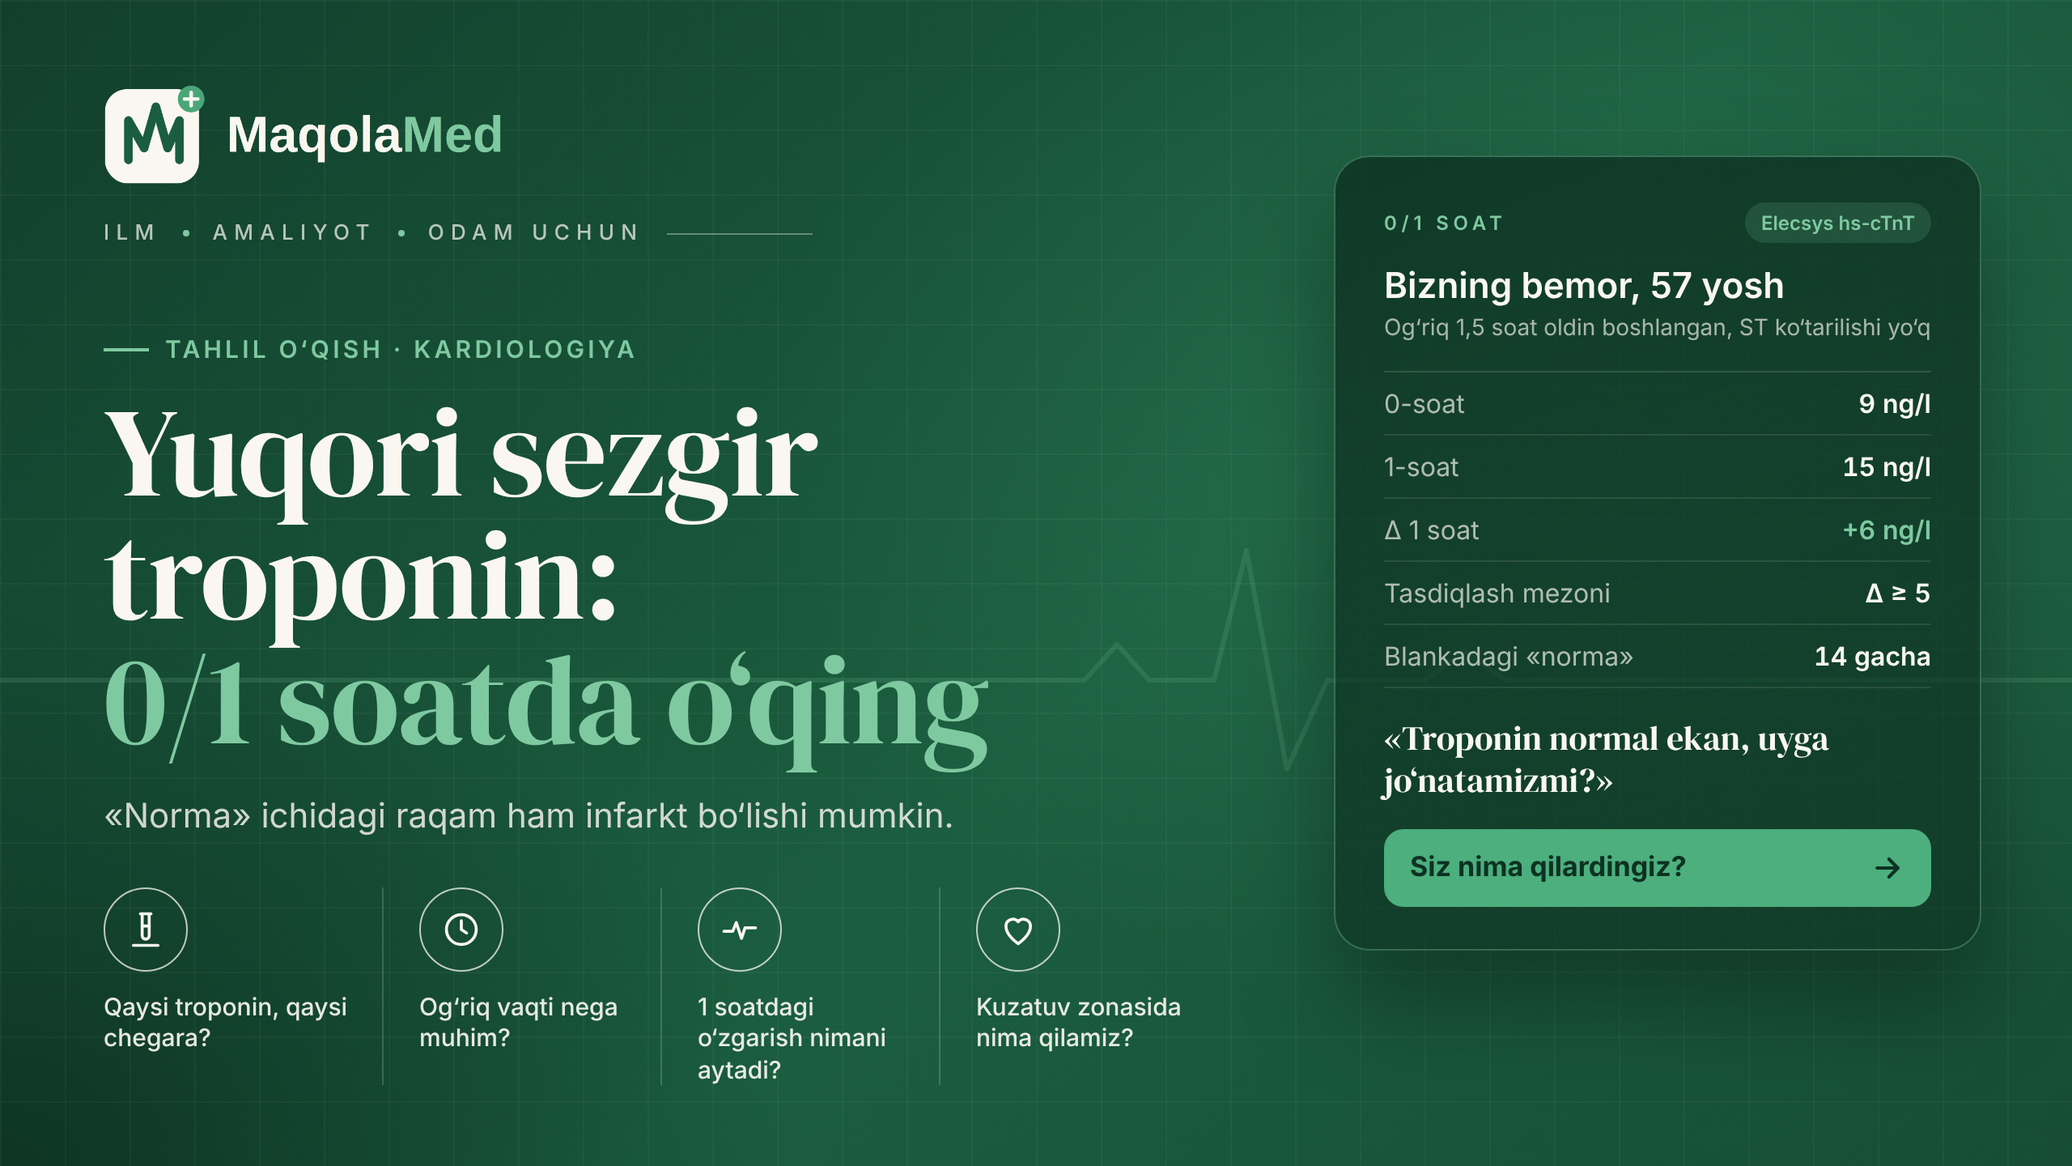
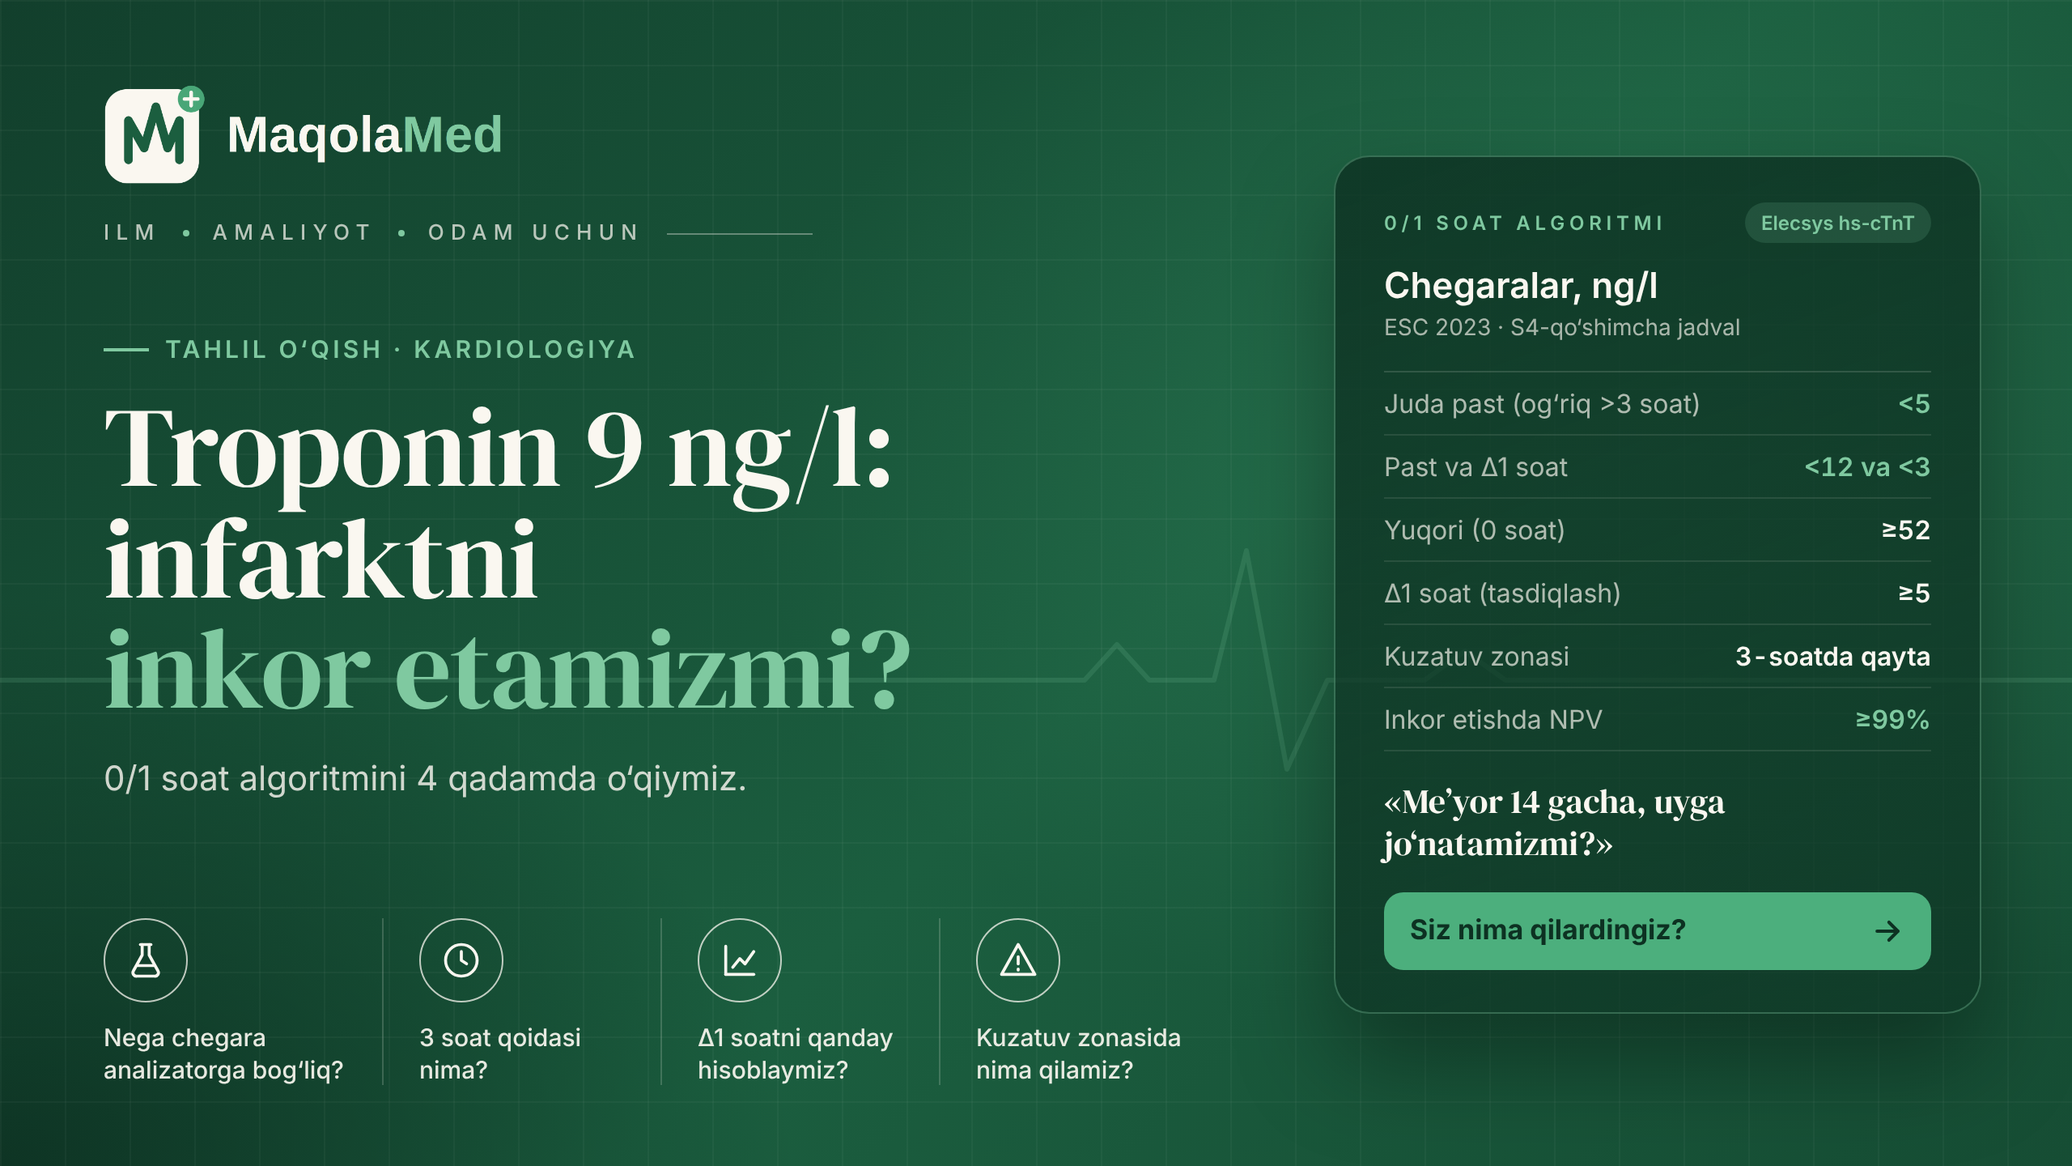
25-dekabr maqolasi qayta yozildi (v2, humanizer): yuqori sezgir troponin 0/1 soat — muqovalar, 1 rasm

diff --git a/_manba/2026-12-25/muqova-instagram-4x5.html b/_manba/2026-12-25/muqova-instagram-4x5.html
@@ -1,0 +1,88 @@
+<!doctype html>
+<html lang="uz">
+<head><base href="file:///home/claude/maqolamed-rasmlar/_shablon/">
+<meta charset="utf-8">
+<style>
+@font-face{font-family:"DM Serif Display";src:url("fonts/dm-serif-display-latin-400-normal.woff2") format("woff2");}
+@font-face{font-family:"DM Serif Display";src:url("fonts/dm-serif-display-latin-ext-400-normal.woff2") format("woff2");unicode-range:U+0100-024F,U+1E00-1EFF;}
+:root{
+  --emerald:#1B5E3F; --deep:#0D3122; --cream:#FAF7F0; --mint:#7FC9A0; --green:#4CAF7D;
+}
+*{margin:0;padding:0;box-sizing:border-box}
+html,body{width:1280px;height:720px;overflow:hidden;background:var(--deep)}
+.cover{position:relative;width:1280px;height:720px;overflow:hidden;font-family:"Inter",sans-serif;color:var(--cream);
+  background:
+    radial-gradient(900px 600px at 78% 40%, rgba(76,175,125,.22), transparent 60%),
+    radial-gradient(700px 500px at 0% 100%, rgba(13,49,34,.9), transparent 70%),
+    linear-gradient(135deg,#123F2C 0%, #1B5E3F 55%, #164D34 100%);}
+.grid{position:absolute;inset:0;background-image:
+    linear-gradient(rgba(250,247,240,.035) 1px,transparent 1px),
+    linear-gradient(90deg,rgba(250,247,240,.035) 1px,transparent 1px);
+  background-size:40px 40px;}
+.ekg{position:absolute;left:0;top:300px;width:1280px;height:200px;opacity:.16}
+.left{position:absolute;left:64px;top:52px;width:690px}
+.brand{display:flex;align-items:center;gap:28px}
+.brand img{height:62px;display:block}
+.tag{display:flex;align-items:center;gap:14px;font-size:13px;letter-spacing:.32em;color:rgba(250,247,240,.72);font-weight:500}
+.tag i{width:4px;height:4px;border-radius:50%;background:var(--mint);display:inline-block}
+.tag .line{width:90px;height:1px;background:rgba(250,247,240,.35)}
+.kicker{margin-top:54px;display:inline-flex;align-items:center;gap:10px;font-size:15px;font-weight:600;letter-spacing:.14em;text-transform:uppercase;color:var(--mint)}
+.kicker span{display:inline-block;width:28px;height:2px;background:var(--mint)}
+h1{margin-top:16px;font-family:"DM Serif Display",serif;font-weight:400;font-size:78px;line-height:.98;letter-spacing:-.01em;color:var(--cream)}
+h1 em{font-style:normal;color:var(--mint)}
+.sub{margin-top:22px;font-size:21px;color:rgba(250,247,240,.82);font-weight:400}
+.points{position:absolute;left:64px;bottom:50px;display:flex;gap:0}
+.pt{width:172px;padding-right:18px;display:flex;flex-direction:column;align-items:flex-start;gap:12px}
+.pt + .pt{padding-left:22px;border-left:1px solid rgba(250,247,240,.18)}
+.ic{width:52px;height:52px;border-radius:50%;border:1.6px solid rgba(250,247,240,.75);display:grid;place-items:center}
+.ic svg{width:26px;height:26px;stroke:var(--cream);fill:none;stroke-width:1.7;stroke-linecap:round;stroke-linejoin:round}
+.pt p{font-size:15px;line-height:1.3;color:rgba(250,247,240,.92);font-weight:500}
+.card{position:absolute;right:56px;top:96px;width:400px;border-radius:22px;padding:28px 30px 26px;
+  background:linear-gradient(160deg,rgba(13,49,34,.82),rgba(13,49,34,.62));
+  border:1px solid rgba(127,201,160,.35);box-shadow:0 30px 60px rgba(0,0,0,.35)}
+.card .ch{display:flex;justify-content:space-between;align-items:center}
+.card .lbl{font-size:12px;letter-spacing:.24em;font-weight:600;color:var(--mint)}
+.card .pill{font-size:12px;font-weight:600;padding:5px 10px;border-radius:999px;background:rgba(127,201,160,.16);color:var(--mint)}
+.card h3{margin-top:14px;font-size:22px;font-weight:600}
+.card h3 small{display:block;margin-top:4px;font-size:14px;font-weight:400;color:rgba(250,247,240,.65)}
+.rows{margin-top:18px;border-top:1px solid rgba(250,247,240,.14)}
+.row{display:flex;justify-content:space-between;padding:9px 0;border-bottom:1px solid rgba(250,247,240,.10);font-size:16px}
+.row span:first-child{color:rgba(250,247,240,.68)}
+.row span:last-child{font-weight:600;font-variant-numeric:tabular-nums}
+.row .ok{color:var(--mint)}
+.quote{margin-top:18px;font-family:"DM Serif Display",serif;font-size:21px;line-height:1.25;color:var(--cream)}
+.ask{margin-top:16px;display:flex;align-items:center;justify-content:space-between;padding:13px 16px;border-radius:12px;background:var(--green);color:#0D3122;font-weight:700;font-size:17px}
+.ask svg{width:22px;height:22px;stroke:#0D3122;fill:none;stroke-width:2.2;stroke-linecap:round;stroke-linejoin:round}
+
+html,body{width:1080px;height:1350px}
+.cover{width:1080px;height:1350px}
+.ekg{top:525px;width:1080px}
+.left{left:72px;top:64px;width:940px}
+.brand img{height:72px}
+h1{font-size:96px;margin-top:18px}
+.kicker{margin-top:56px;font-size:17px}
+.sub{font-size:24px}
+.card{left:72px;right:72px;top:auto;bottom:250px;width:auto;padding:30px 34px}
+.rows{display:grid;grid-template-columns:1fr 1fr;column-gap:40px}
+.quote{font-size:24px}
+.points{left:72px;right:72px;bottom:60px}
+.pt{width:auto;flex:1}
+.pt p{font-size:17px}
+
+
+
+
+h1{font-size:92px}
+</style>
+</head>
+<body><div class="cover"><div class="grid"></div>
+<svg class="ekg" viewBox="0 0 1280 200" preserveAspectRatio="none"><polyline fill="none" stroke="#7FC9A0" stroke-width="3" stroke-linejoin="round" stroke-linecap="round" points="0,120 640,120 670,120 690,98 710,120 750,120 770,40 795,175 820,120 880,120 905,102 930,120 1280,120"/></svg>
+<div class="left"><div class="brand"><img src="logo_dark_bg.png" alt="MaqolaMed"></div>
+<div class="tag" style="margin-top:22px"><span>ILM</span><i></i><span>AMALIYOT</span><i></i><span>ODAM UCHUN</span><span class="line"></span></div>
+<div class="kicker"><span></span>Tahlil o‘qish · Kardiologiya</div>
+<h1>Troponin 9 ng/l:<br>infarktni<br><em>inkor etamizmi?</em></h1>
+<div class="sub">0/1 soat algoritmini 4 qadamda o‘qiymiz.</div></div>
+<div class="points"><div class="pt"><div class="ic"><svg viewBox="0 0 24 24"><path d="M9 3h6"/><path d="M10 3v6l-5 9a2 2 0 0 0 2 3h10a2 2 0 0 0 2-3l-5-9V3"/><path d="M7.5 15h9"/></svg></div><p>Nega chegara analizatorga bog‘liq?</p></div><div class="pt"><div class="ic"><svg viewBox="0 0 24 24"><circle cx="12" cy="12" r="9"/><path d="M12 7v5l3 2"/></svg></div><p>3 soat qoidasi nima?</p></div><div class="pt"><div class="ic"><svg viewBox="0 0 24 24"><path d="M4 20V4"/><path d="M4 20h16"/><path d="M8 16l4-5 3 3 5-7"/></svg></div><p>Δ1 soatni qanday hisoblaymiz?</p></div><div class="pt"><div class="ic"><svg viewBox="0 0 24 24"><path d="M12 3l9.5 17h-19z"/><path d="M12 10v4"/><path d="M12 17v.5"/></svg></div><p>Kuzatuv zonasida nima qilamiz?</p></div></div>
+<div class="card"><div class="ch"><span class="lbl">0/1 SOAT ALGORITMI</span><span class="pill">Elecsys hs-cTnT</span></div>
+<h3>Chegaralar, ng/l<small>ESC 2023 · S4-qo‘shimcha jadval</small></h3><div class="rows"><div class="row"><span>Juda past (og‘riq &gt;3 soat)</span><span class="ok">&lt;5</span></div><div class="row"><span>Past va Δ1 soat</span><span class="ok">&lt;12 va &lt;3</span></div><div class="row"><span>Yuqori (0 soat)</span><span class="">≥52</span></div><div class="row"><span>Δ1 soat (tasdiqlash)</span><span class="">≥5</span></div><div class="row"><span>Kuzatuv zonasi</span><span class="">3-soatda qayta</span></div><div class="row"><span>Inkor etishda NPV</span><span class="ok">≥99%</span></div></div><div class="quote">«Me’yor 14 gacha, uyga jo‘natamizmi?»</div><div class="ask">Siz nima qilardingiz?<svg viewBox="0 0 24 24"><path d="M5 12h14"/><path d="M13 6l6 6-6 6"/></svg></div></div>
+</div></body></html>

diff --git a/_manba/2026-12-25/muqova-16x9.html b/_manba/2026-12-25/muqova-16x9.html
@@ -1,0 +1,71 @@
+<!doctype html>
+<html lang="uz">
+<head><base href="file:///home/claude/maqolamed-rasmlar/_shablon/">
+<meta charset="utf-8">
+<style>
+@font-face{font-family:"DM Serif Display";src:url("fonts/dm-serif-display-latin-400-normal.woff2") format("woff2");}
+@font-face{font-family:"DM Serif Display";src:url("fonts/dm-serif-display-latin-ext-400-normal.woff2") format("woff2");unicode-range:U+0100-024F,U+1E00-1EFF;}
+:root{
+  --emerald:#1B5E3F; --deep:#0D3122; --cream:#FAF7F0; --mint:#7FC9A0; --green:#4CAF7D;
+}
+*{margin:0;padding:0;box-sizing:border-box}
+html,body{width:1280px;height:720px;overflow:hidden;background:var(--deep)}
+.cover{position:relative;width:1280px;height:720px;overflow:hidden;font-family:"Inter",sans-serif;color:var(--cream);
+  background:
+    radial-gradient(900px 600px at 78% 40%, rgba(76,175,125,.22), transparent 60%),
+    radial-gradient(700px 500px at 0% 100%, rgba(13,49,34,.9), transparent 70%),
+    linear-gradient(135deg,#123F2C 0%, #1B5E3F 55%, #164D34 100%);}
+.grid{position:absolute;inset:0;background-image:
+    linear-gradient(rgba(250,247,240,.035) 1px,transparent 1px),
+    linear-gradient(90deg,rgba(250,247,240,.035) 1px,transparent 1px);
+  background-size:40px 40px;}
+.ekg{position:absolute;left:0;top:300px;width:1280px;height:200px;opacity:.16}
+.left{position:absolute;left:64px;top:52px;width:690px}
+.brand{display:flex;align-items:center;gap:28px}
+.brand img{height:62px;display:block}
+.tag{display:flex;align-items:center;gap:14px;font-size:13px;letter-spacing:.32em;color:rgba(250,247,240,.72);font-weight:500}
+.tag i{width:4px;height:4px;border-radius:50%;background:var(--mint);display:inline-block}
+.tag .line{width:90px;height:1px;background:rgba(250,247,240,.35)}
+.kicker{margin-top:54px;display:inline-flex;align-items:center;gap:10px;font-size:15px;font-weight:600;letter-spacing:.14em;text-transform:uppercase;color:var(--mint)}
+.kicker span{display:inline-block;width:28px;height:2px;background:var(--mint)}
+h1{margin-top:16px;font-family:"DM Serif Display",serif;font-weight:400;font-size:78px;line-height:.98;letter-spacing:-.01em;color:var(--cream)}
+h1 em{font-style:normal;color:var(--mint)}
+.sub{margin-top:22px;font-size:21px;color:rgba(250,247,240,.82);font-weight:400}
+.points{position:absolute;left:64px;bottom:50px;display:flex;gap:0}
+.pt{width:172px;padding-right:18px;display:flex;flex-direction:column;align-items:flex-start;gap:12px}
+.pt + .pt{padding-left:22px;border-left:1px solid rgba(250,247,240,.18)}
+.ic{width:52px;height:52px;border-radius:50%;border:1.6px solid rgba(250,247,240,.75);display:grid;place-items:center}
+.ic svg{width:26px;height:26px;stroke:var(--cream);fill:none;stroke-width:1.7;stroke-linecap:round;stroke-linejoin:round}
+.pt p{font-size:15px;line-height:1.3;color:rgba(250,247,240,.92);font-weight:500}
+.card{position:absolute;right:56px;top:96px;width:400px;border-radius:22px;padding:28px 30px 26px;
+  background:linear-gradient(160deg,rgba(13,49,34,.82),rgba(13,49,34,.62));
+  border:1px solid rgba(127,201,160,.35);box-shadow:0 30px 60px rgba(0,0,0,.35)}
+.card .ch{display:flex;justify-content:space-between;align-items:center}
+.card .lbl{font-size:12px;letter-spacing:.24em;font-weight:600;color:var(--mint)}
+.card .pill{font-size:12px;font-weight:600;padding:5px 10px;border-radius:999px;background:rgba(127,201,160,.16);color:var(--mint)}
+.card h3{margin-top:14px;font-size:22px;font-weight:600}
+.card h3 small{display:block;margin-top:4px;font-size:14px;font-weight:400;color:rgba(250,247,240,.65)}
+.rows{margin-top:18px;border-top:1px solid rgba(250,247,240,.14)}
+.row{display:flex;justify-content:space-between;padding:9px 0;border-bottom:1px solid rgba(250,247,240,.10);font-size:16px}
+.row span:first-child{color:rgba(250,247,240,.68)}
+.row span:last-child{font-weight:600;font-variant-numeric:tabular-nums}
+.row .ok{color:var(--mint)}
+.quote{margin-top:18px;font-family:"DM Serif Display",serif;font-size:21px;line-height:1.25;color:var(--cream)}
+.ask{margin-top:16px;display:flex;align-items:center;justify-content:space-between;padding:13px 16px;border-radius:12px;background:var(--green);color:#0D3122;font-weight:700;font-size:17px}
+.ask svg{width:22px;height:22px;stroke:#0D3122;fill:none;stroke-width:2.2;stroke-linecap:round;stroke-linejoin:round}
+
+
+h1{font-size:70px}
+</style>
+</head>
+<body><div class="cover"><div class="grid"></div>
+<svg class="ekg" viewBox="0 0 1280 200" preserveAspectRatio="none"><polyline fill="none" stroke="#7FC9A0" stroke-width="3" stroke-linejoin="round" stroke-linecap="round" points="0,120 640,120 670,120 690,98 710,120 750,120 770,40 795,175 820,120 880,120 905,102 930,120 1280,120"/></svg>
+<div class="left"><div class="brand"><img src="logo_dark_bg.png" alt="MaqolaMed"></div>
+<div class="tag" style="margin-top:22px"><span>ILM</span><i></i><span>AMALIYOT</span><i></i><span>ODAM UCHUN</span><span class="line"></span></div>
+<div class="kicker"><span></span>Tahlil o‘qish · Kardiologiya</div>
+<h1>Troponin 9 ng/l:<br>infarktni<br><em>inkor etamizmi?</em></h1>
+<div class="sub">0/1 soat algoritmini 4 qadamda o‘qiymiz.</div></div>
+<div class="points"><div class="pt"><div class="ic"><svg viewBox="0 0 24 24"><path d="M9 3h6"/><path d="M10 3v6l-5 9a2 2 0 0 0 2 3h10a2 2 0 0 0 2-3l-5-9V3"/><path d="M7.5 15h9"/></svg></div><p>Nega chegara analizatorga bog‘liq?</p></div><div class="pt"><div class="ic"><svg viewBox="0 0 24 24"><circle cx="12" cy="12" r="9"/><path d="M12 7v5l3 2"/></svg></div><p>3 soat qoidasi nima?</p></div><div class="pt"><div class="ic"><svg viewBox="0 0 24 24"><path d="M4 20V4"/><path d="M4 20h16"/><path d="M8 16l4-5 3 3 5-7"/></svg></div><p>Δ1 soatni qanday hisoblaymiz?</p></div><div class="pt"><div class="ic"><svg viewBox="0 0 24 24"><path d="M12 3l9.5 17h-19z"/><path d="M12 10v4"/><path d="M12 17v.5"/></svg></div><p>Kuzatuv zonasida nima qilamiz?</p></div></div>
+<div class="card"><div class="ch"><span class="lbl">0/1 SOAT ALGORITMI</span><span class="pill">Elecsys hs-cTnT</span></div>
+<h3>Chegaralar, ng/l<small>ESC 2023 · S4-qo‘shimcha jadval</small></h3><div class="rows"><div class="row"><span>Juda past (og‘riq &gt;3 soat)</span><span class="ok">&lt;5</span></div><div class="row"><span>Past va Δ1 soat</span><span class="ok">&lt;12 va &lt;3</span></div><div class="row"><span>Yuqori (0 soat)</span><span class="">≥52</span></div><div class="row"><span>Δ1 soat (tasdiqlash)</span><span class="">≥5</span></div><div class="row"><span>Kuzatuv zonasi</span><span class="">3-soatda qayta</span></div><div class="row"><span>Inkor etishda NPV</span><span class="ok">≥99%</span></div></div><div class="quote">«Me’yor 14 gacha, uyga jo‘natamizmi?»</div><div class="ask">Siz nima qilardingiz?<svg viewBox="0 0 24 24"><path d="M5 12h14"/><path d="M13 6l6 6-6 6"/></svg></div></div>
+</div></body></html>

diff --git a/_manba/2026-12-25/1-rasm.html b/_manba/2026-12-25/1-rasm.html
@@ -1,0 +1,46 @@
+<!doctype html><html lang="uz"><head><meta charset="utf-8"><base href="file:///home/claude/maqolamed-rasmlar/_shablon/">
+<style>
+@font-face{font-family:"DM Serif Display";src:url("fonts/dm-serif-display-latin-400-normal.woff2") format("woff2");}
+@font-face{font-family:"DM Serif Display";src:url("fonts/dm-serif-display-latin-ext-400-normal.woff2") format("woff2");unicode-range:U+0100-024F,U+1E00-1EFF;}
+:root{--emerald:#1B5E3F;--deep:#0D3122;--cream:#FAF7F0;--mint:#7FC9A0;--green:#4CAF7D;--ink:#17322A;--muted:#5C6F66;--amber:#C98A2E;--amberbg:#FBF1E1;--red:#B5513F;--redbg:#F8E7E2;--tint:#E6F3EC}
+*{margin:0;padding:0;box-sizing:border-box}
+html,body{width:1280px;height:var(--H,900px);background:var(--cream);overflow:hidden}
+.fig{position:relative;width:1280px;height:var(--H,900px);padding:44px 56px;font-family:"Inter",sans-serif;color:var(--ink)}
+.top{display:flex;justify-content:space-between;align-items:flex-start;margin-bottom:28px}
+h1{font-family:"DM Serif Display",serif;font-weight:400;font-size:40px;line-height:1.05;color:var(--deep)}
+h1 em{font-style:normal;color:var(--green)}
+.brand{display:flex;align-items:center;gap:10px;font-weight:700;font-size:20px;color:var(--emerald)}
+.brand img{height:34px}.brand b{color:var(--green);font-weight:700}
+table{width:100%;border-collapse:separate;border-spacing:0 8px;font-size:16px;line-height:1.35}
+th{text-align:left;font-size:12px;letter-spacing:.14em;text-transform:uppercase;color:var(--muted);padding:0 18px 2px;font-weight:700}
+td{background:#fff;padding:13px 18px;vertical-align:middle}
+td:first-child{border-radius:12px 0 0 12px;font-weight:700;color:var(--deep)}
+td:last-child{border-radius:0 12px 12px 0}
+td.new{background:var(--tint)} td.same{background:#F1EEE6;color:var(--muted)}
+td.warn{background:var(--redbg)}
+.badge{display:inline-block;font-size:11px;font-weight:700;letter-spacing:.08em;padding:4px 9px;border-radius:999px;margin-right:8px;vertical-align:1px}
+.b-new{background:var(--emerald);color:var(--cream)} .b-same{background:#E2DED3;color:var(--muted)} .b-red{background:var(--red);color:#fff} .b-amb{background:var(--amber);color:#fff}
+.muted{color:var(--muted)}
+.node{border-radius:14px;padding:14px 18px;font-size:16px;line-height:1.38}
+.node b{display:block;font-size:17px;margin-bottom:3px}
+.n-dark{background:var(--emerald);color:var(--cream)} .n-deep{background:var(--deep);color:var(--cream)}
+.n-white{background:#fff;border:1.5px solid #BFDCCB} .n-amb{background:#fff;border:1.5px solid #EBD3A9} .n-red{background:var(--redbg);border:1.5px solid #E8C3BA}
+.tagc{display:inline-block;font-size:12px;font-weight:700;letter-spacing:.12em;text-transform:uppercase;padding:6px 12px;border-radius:999px}
+.t-g{background:#DDEFE5;color:var(--emerald)} .t-a{background:var(--amberbg);color:#8A5A14} .t-r{background:var(--redbg);color:var(--red)}
+.note{position:absolute;left:56px;right:56px;bottom:40px;padding:14px 18px;border-radius:12px;background:#EEF2EE;font-size:15px;line-height:1.4}
+.note b{color:var(--deep)}
+.src{position:absolute;right:56px;bottom:12px;font-size:12px;color:var(--muted)}
+.arrow{stroke:var(--emerald);stroke-width:2.2;fill:none}
+</style></head><body><style>:root{--H:700px}
+td{font-size:17px} td.z{width:210px} .big{font-size:20px;font-weight:700;font-variant-numeric:tabular-nums}
+.flow{display:flex;gap:12px;margin:0 0 18px}.flow .node{flex:1}
+</style>
+<div class="fig"><div class="top"><h1>Yuqori sezgir troponin:<br><em>ESC 0/1 soat algoritmi</em></h1><div class="brand"><img src="icon.png" alt=""><span>Maqola<b>Med</b></span></div></div>
+<div class="flow"><div class="node n-dark"><b>0 soat</b>Kelganda qon olinadi, og‘riq boshlangan vaqt yoziladi</div><div class="node n-white"><b>1 soat</b>Ikkinchi o‘lchov, mutlaq farq (Δ1 soat) ng/l da</div><div class="node n-amb"><b>3 soat</b>Faqat kuzatuv zonasida: uchinchi o‘lchov + exokardiografiya</div></div>
+<table><tr><th>Zona</th><th>Mezon</th><th>Elecsys hs-cTnT</th><th>Architect hs-cTnI</th></tr>
+<tr><td class="z new"><span class="badge b-new">INKOR</span>bitta namuna</td><td class="new">0 soat juda past <b>va</b> og‘riq 3 soatdan oldin boshlangan</td><td class="new big">&lt;5</td><td class="new big">&lt;4</td></tr>
+<tr><td class="z new"><span class="badge b-new">INKOR</span>0/1 soat</td><td class="new">0 soat past <b>va</b> Δ1 soat kichik</td><td class="new big">&lt;12 va Δ&lt;3</td><td class="new big">&lt;5 va Δ&lt;2</td></tr>
+<tr><td class="z warn"><span class="badge b-red">TASDIQLASH</span></td><td class="warn">0 soat yuqori <b>yoki</b> Δ1 soat katta</td><td class="warn big">≥52 yoki Δ≥5</td><td class="warn big">≥64 yoki Δ≥6</td></tr>
+<tr><td class="z" style="background:var(--amberbg)"><span class="badge b-amb">KUZATUV</span></td><td style="background:var(--amberbg)">Qolgan barcha bemorlar</td><td colspan="2" style="background:var(--amberbg)">3 soatda uchinchi troponin, exokardiografiya, individual xavf baholash</td></tr></table>
+<div class="note"><b>Eslatma:</b> chegaralar faqat shu analizatorlarga tegishli (ng/l). 0/2 soat varianti (Elecsys): inkor &lt;14 va Δ2 soat &lt;4; tasdiqlash ≥52 yoki Δ2 soat ≥10. Natija har doim EKG va klinik manzara bilan birga o‘qiladi.</div>
+<div class="src">Manba: [1] — ESC 2023, S4-qo‘shimcha jadval.</div></div></body></html>
